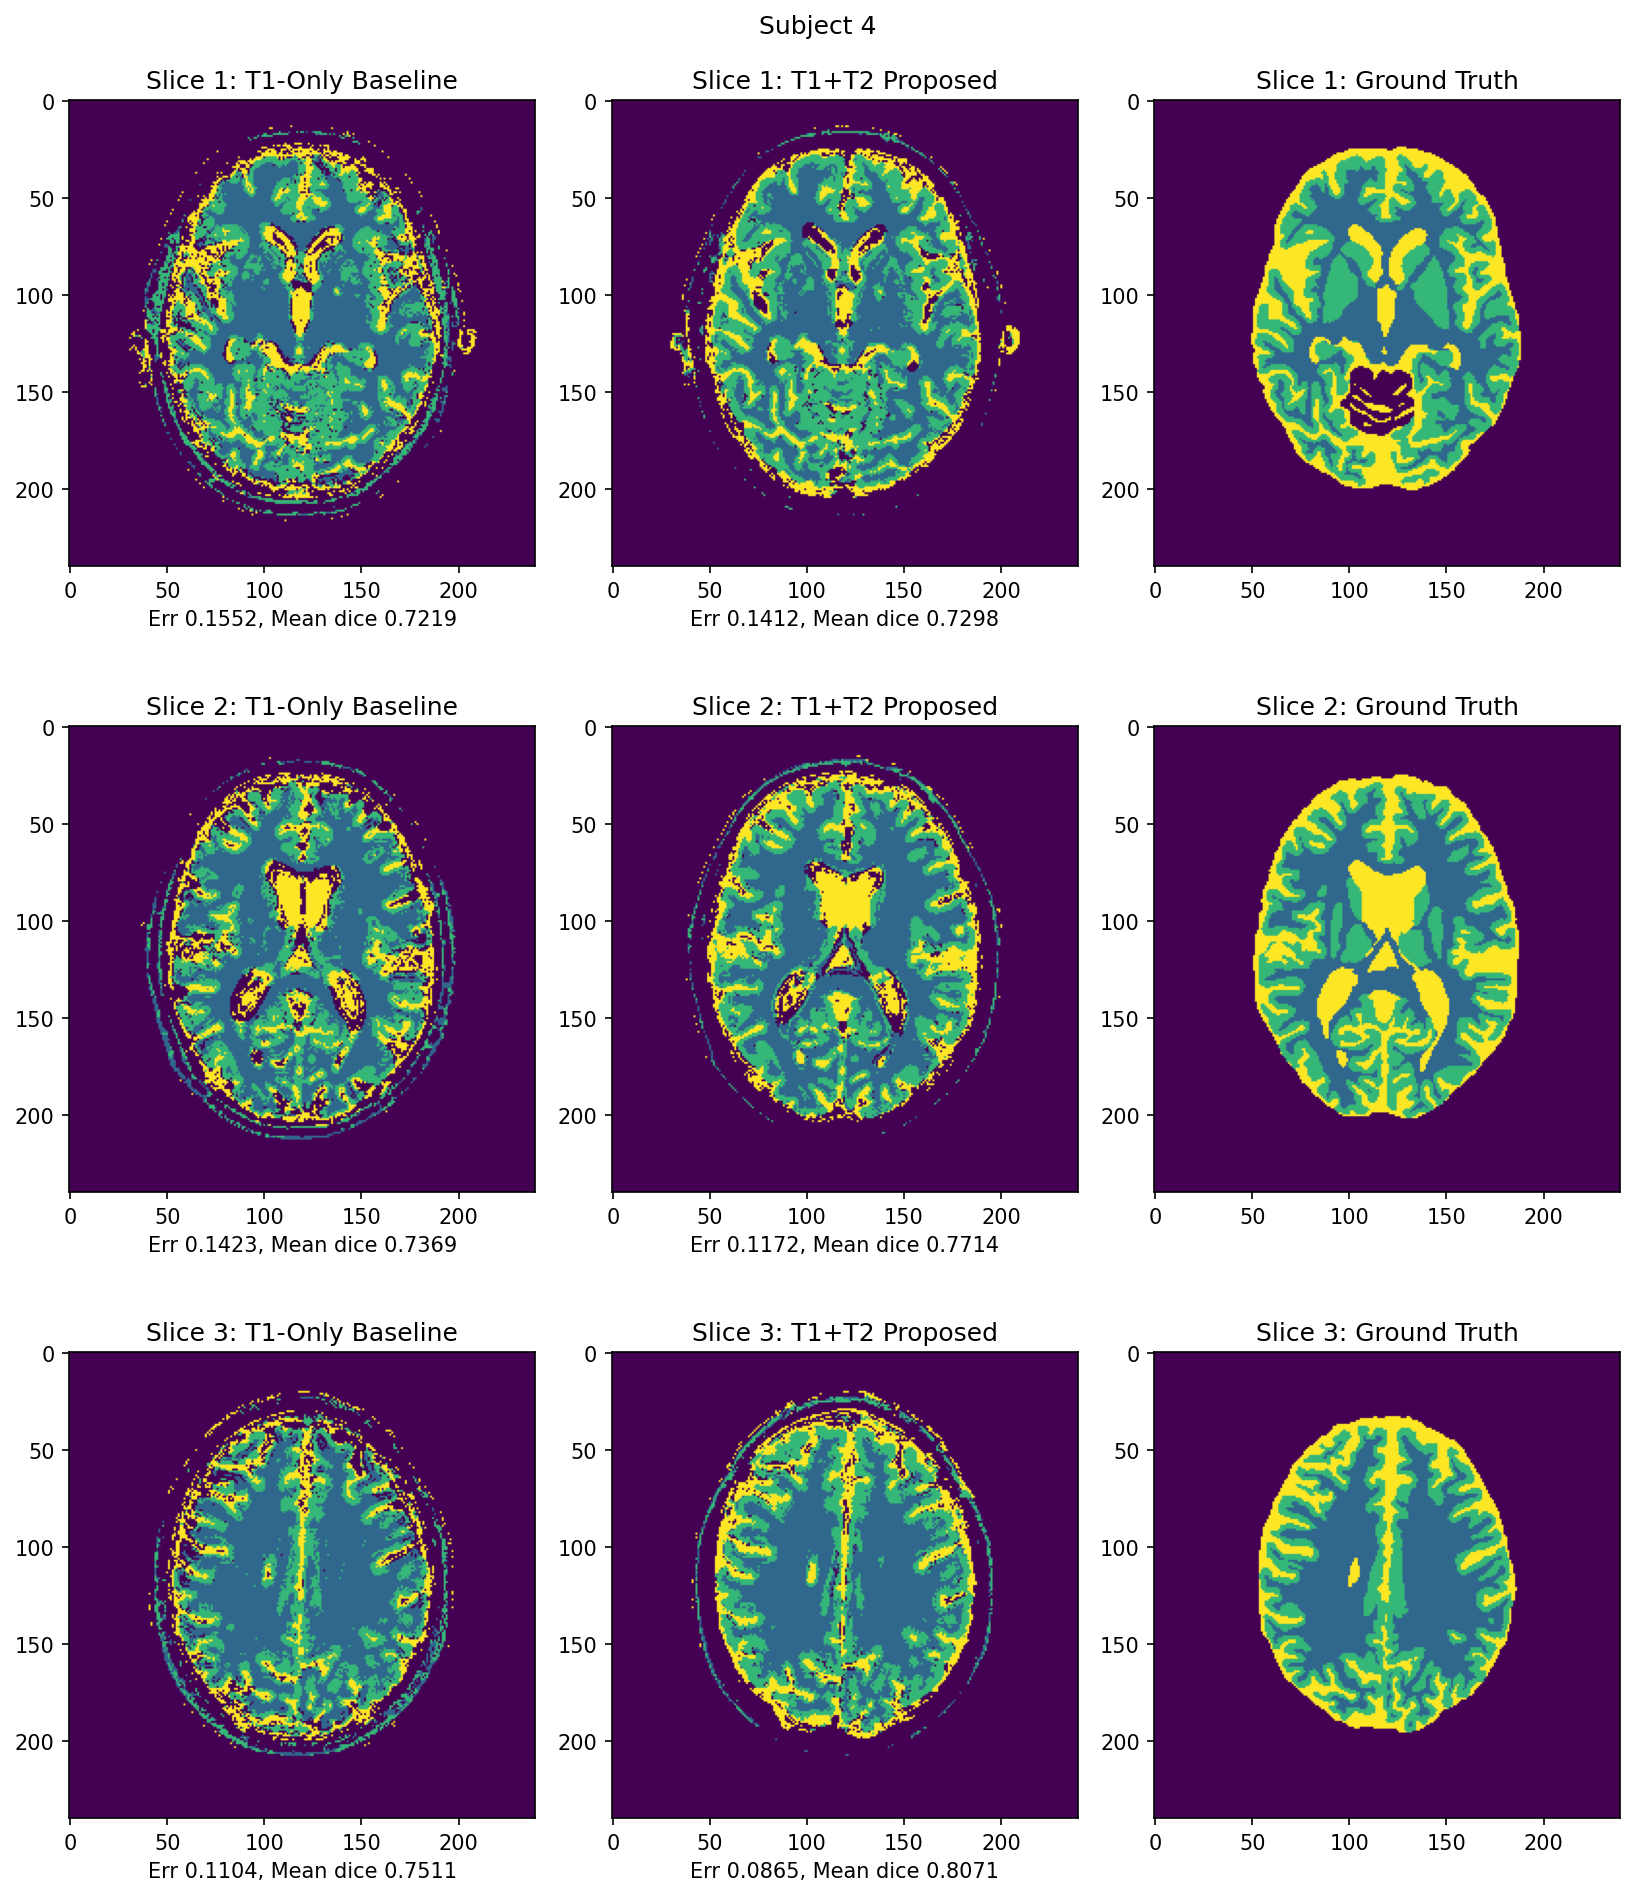
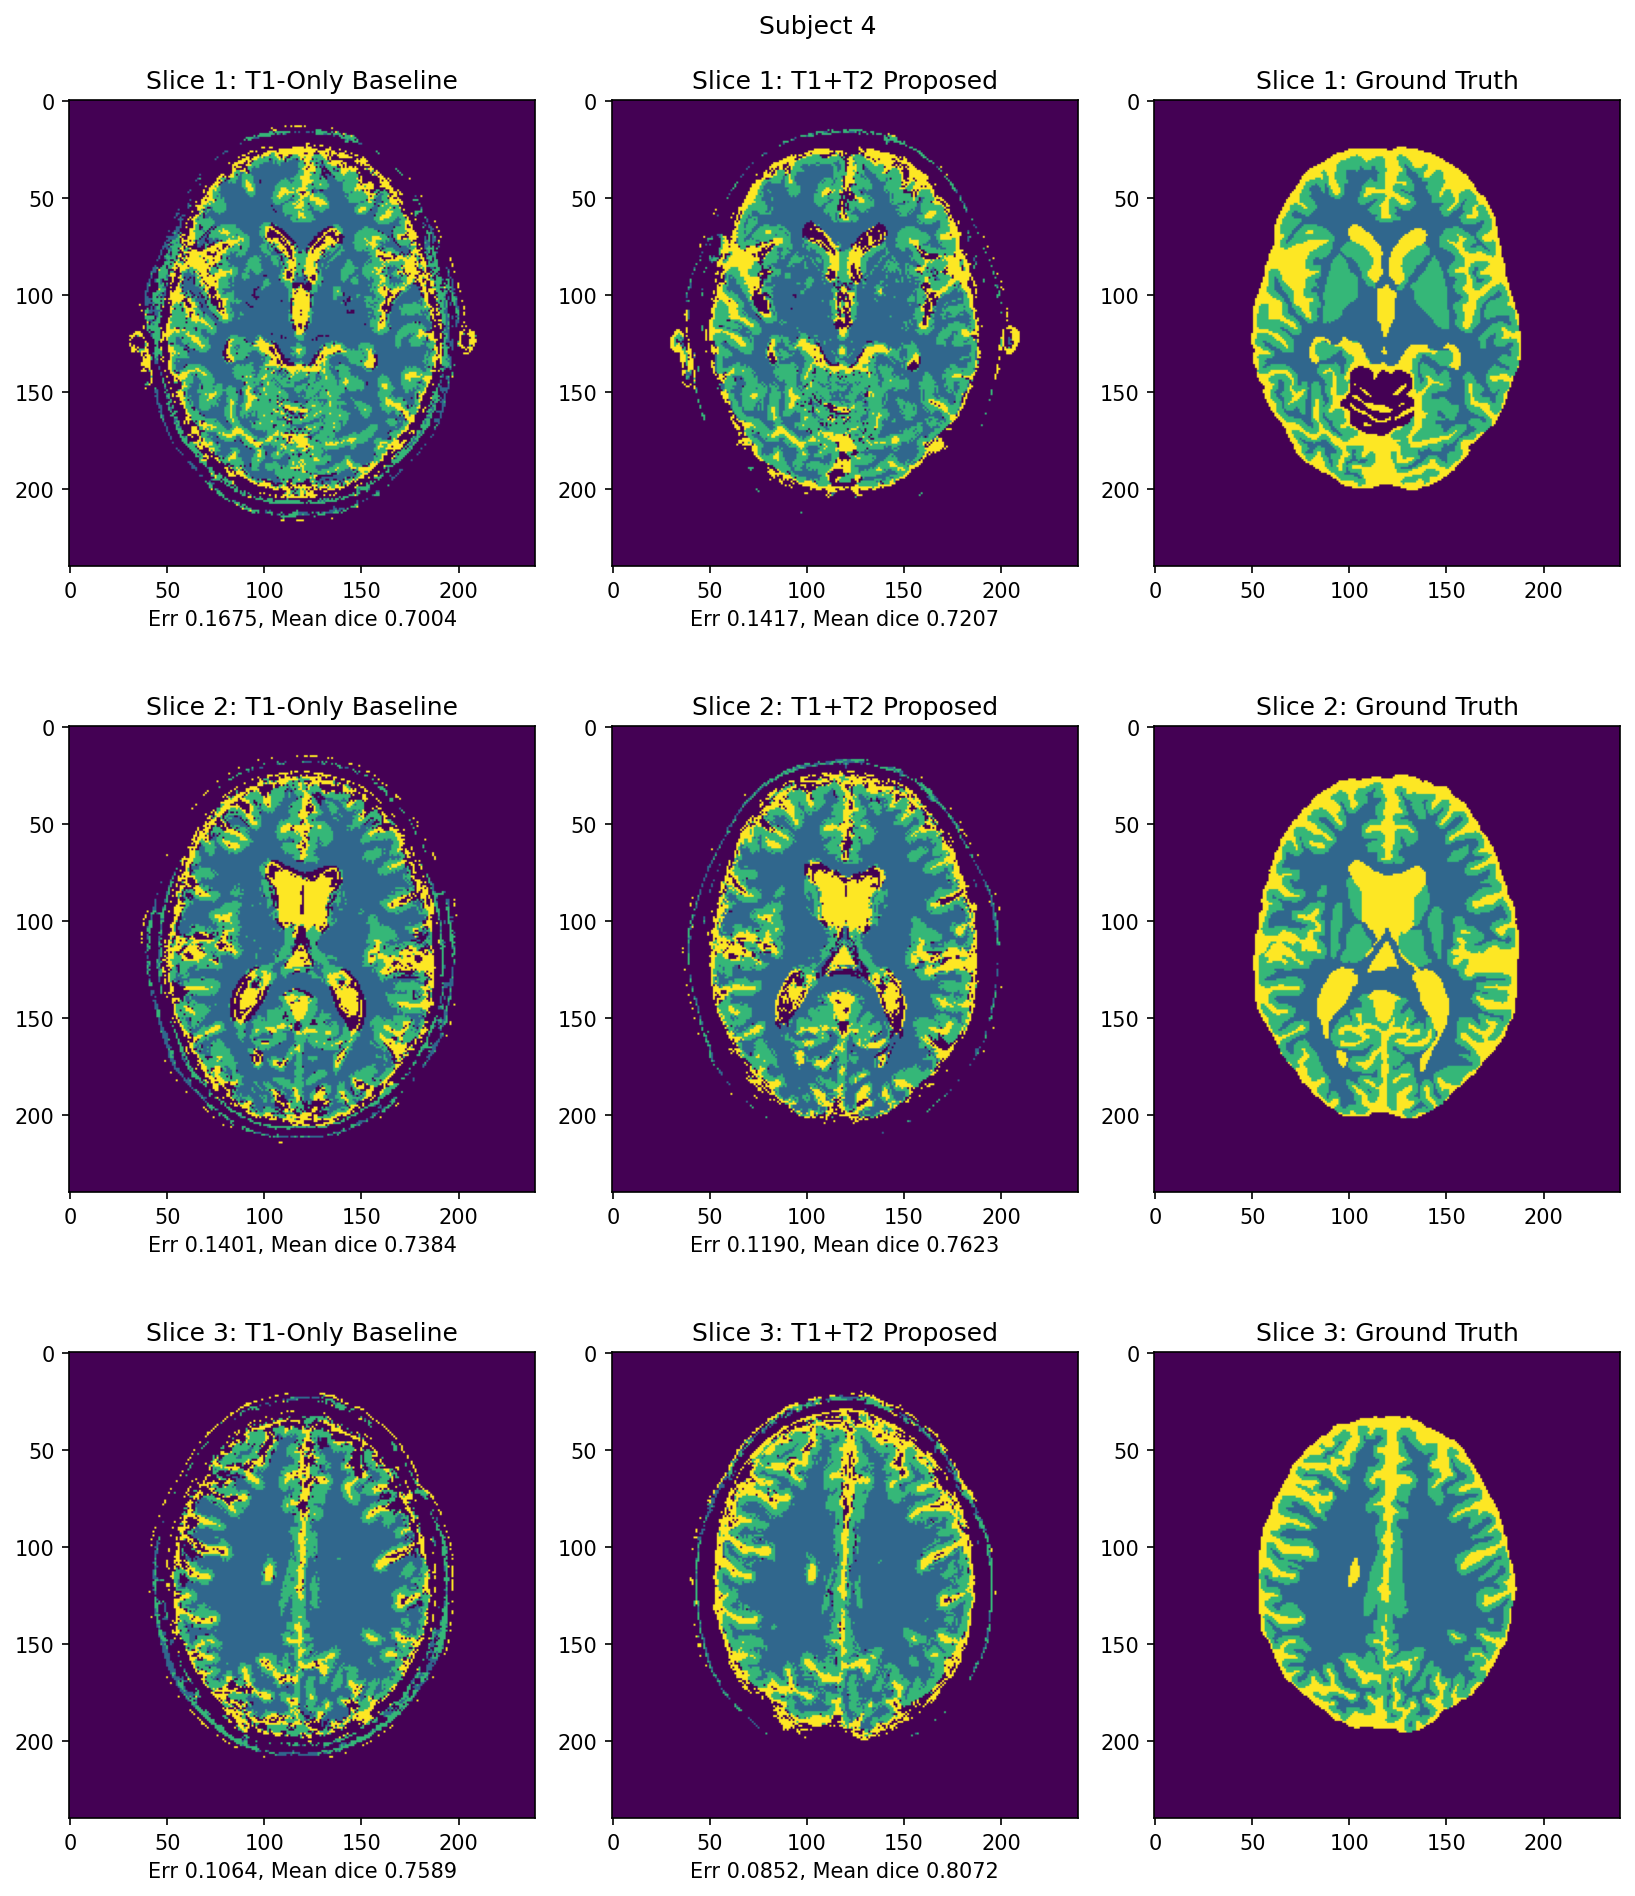
dummy text weggehaald en print bij confusion matrix veranderd

diff --git a/Segmentation/code/segmentation_project.py b/Segmentation/code/segmentation_project.py
@@ -120,7 +120,7 @@ def segmentation_demo():
             err_t1t2 = util.classification_error(test_labels, predicted_labels_t1t2)
             dice_t1t2 = util.dice_multiclass(test_labels, predicted_labels_t1t2)
             conf_matrix_t1t2 = util.confusion_matrix(test_labels, predicted_labels_t1t2)
-            print(f"Confusion Matrix for T1-only:\n{conf_matrix_t1t2}")
+            print(f"Confusion Matrix for T1+T2:\n{conf_matrix_t1t2}")
 
             dice_score_mini_list.append(float(dice_t1))
             dice_score_mini_list.append(float(dice_t1t2))
@@ -155,95 +155,3 @@ def segmentation_demo():
     print("All dice scores:", dice_score_list)
     for i in dice_score_list:
         print(i[0], i[1])
-
-
-# def segmentation_demo():
-
-#     train_subject = 1
-#     test_subject = 2
-#     train_slice = 1
-#     test_slice = 1
-#     task = 'brain'
-
-#     #Load data
-#     train_data, train_labels, train_feature_labels = util.create_dataset(train_subject,train_slice,task)
-#     test_data, test_labels, test_feature_labels = util.create_dataset(test_subject,test_slice,task)
-
-#     # predicted_labels = seg.segmentation_knn(None, train_labels, None)
-
-#     # err = util.classification_error(test_labels, predicted_labels)
-#     # dice = util.dice_overlap(test_labels, predicted_labels)
-
-#     #Display results
-#     # true_mask = test_labels.reshape(240, 240)
-#     # predicted_mask = predicted_labels.reshape(240, 240)
-
-#     # fig = plt.figure(figsize=(8,8))
-#     # ax1 = fig.add_subplot(111)
-#     # ax1.imshow(true_mask, 'gray')
-#     # ax1.imshow(predicted_mask, 'viridis', alpha=0.5)
-#     # print('Subject {}, slice {}.\nErr {}, dice {}'.format(test_subject, test_slice, err, dice))
-
-#     ## Compare methods
-#     num_images = 5
-#     num_methods = 3
-#     im_size = [240, 240]
-
-#     all_errors = np.empty([num_images,num_methods])
-#     all_errors[:] = np.nan
-#     all_dice = np.empty([num_images,num_methods])
-#     all_dice[:] = np.nan
-
-#     all_subjects = np.arange(num_images)
-#     train_slice = 1
-#     task = 'brain'
-#     all_data_matrix = np.empty([train_data.shape[0],train_data.shape[1],num_images])
-#     all_labels_matrix = np.empty([train_labels.size,num_images], dtype=bool)
-
-#     #Load datasets once
-#     print('Loading data for ' + str(num_images) + ' subjects...')
-
-#     for i in all_subjects:
-#         sub = i+1
-#         train_data, train_labels, train_feature_labels = util.create_dataset(sub,train_slice,task)
-#         all_data_matrix[:,:,i] = train_data
-#         all_labels_matrix[:,i] = train_labels.flatten()
-
-#     print('Finished loading data.\nStarting segmentation...')
-
-#     #Go through each subject, taking i-th subject as the test
-#     for i in np.arange(num_images):
-#         sub = i+1
-#         #Define training subjects as all, except the test subject
-#         train_subjects = all_subjects.copy()
-#         train_subjects = np.delete(train_subjects, i)
-
-#         train_data_matrix = all_data_matrix[:,:,train_subjects]
-#         train_labels_matrix = all_labels_matrix[:,train_subjects]
-#         test_data = all_data_matrix[:,:,i]
-#         test_labels = all_labels_matrix[:,i]
-#         test_shape_1 = test_labels.reshape(im_size[0],im_size[1])
-
-#         fig = plt.figure(figsize=(10,5))
-
-#         predicted_labels = seg.segmentation_combined_knn(train_data_matrix,train_labels_matrix,test_data)
-#         all_errors[i,0] = util.classification_error(test_labels, predicted_labels)
-#         all_dice[i,0] = util.dice_overlap(test_labels, predicted_labels)
-#         predicted_mask_1 = predicted_labels.reshape(im_size[0],im_size[1])
-#         ax1 = fig.add_subplot(121)
-#         ax1.imshow(test_shape_1, 'gray')
-#         ax1.imshow(predicted_mask_1, 'viridis', alpha=0.5)
-#         text_str = 'Err {:.4f}, dice {:.4f}'.format(all_errors[i,0], all_dice[i,0])
-#         ax1.set_xlabel(text_str)
-#         ax1.set_title('Subject {}: Combined k-NN'.format(sub))
-
-#         predicted_labels = segmentation_mymethod(train_data_matrix,train_labels_matrix,test_data,task)
-#         all_errors[i,1] = util.classification_error(test_labels, predicted_labels)
-#         all_dice[i,1] = util.dice_overlap(test_labels, predicted_labels)
-#         predicted_mask_2 = predicted_labels.reshape(im_size[0],im_size[1])
-#         ax2 = fig.add_subplot(122)
-#         ax2.imshow(test_shape_1, 'gray')
-#         ax2.imshow(predicted_mask_2, 'viridis', alpha=0.5)
-#         text_str = 'Err {:.4f}, dice {:.4f}'.format(all_errors[i,1], all_dice[i,1])
-#         ax2.set_xlabel(text_str)
-#         ax2.set_title('Subject {}: My method'.format(sub))
